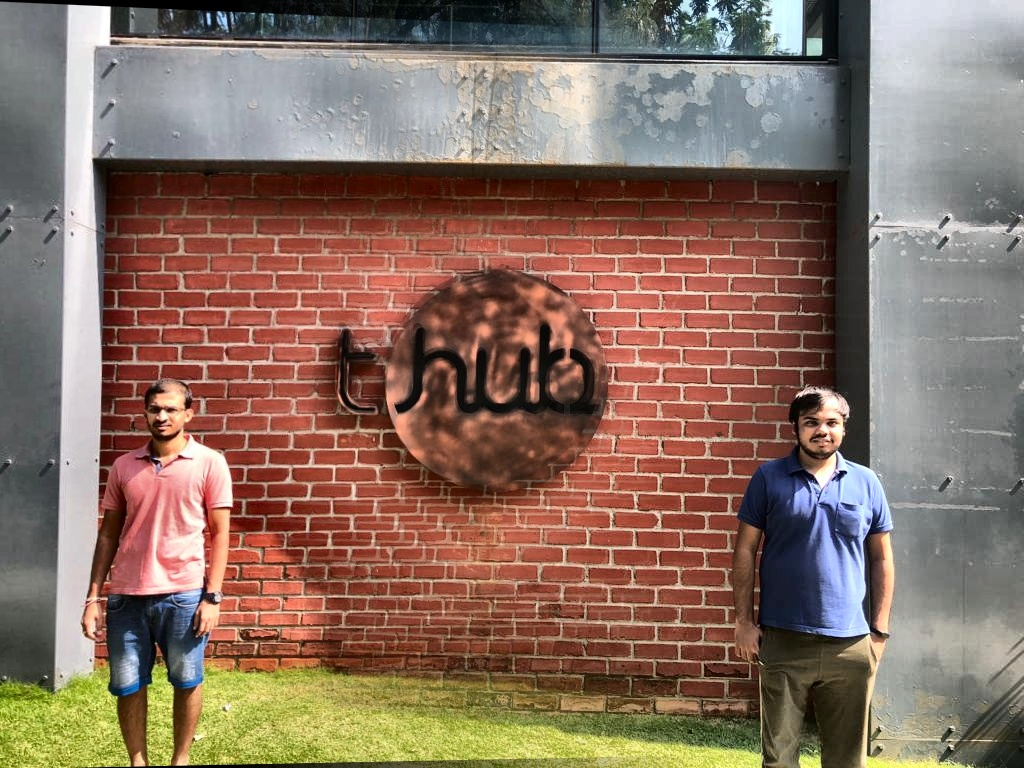
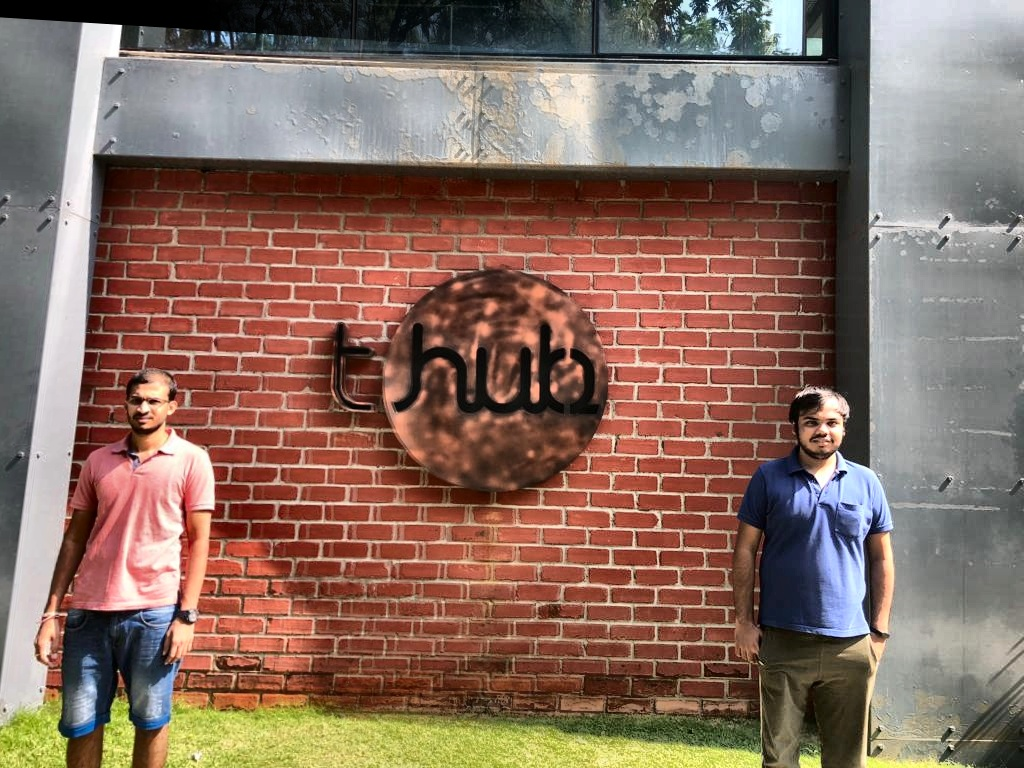
minor update

Changed region(s): [[0.0, 0.0, 0.6562, 1.0]]

diff --git a/lib/util.py b/lib/util.py
@@ -133,6 +133,10 @@ def sort_order(img1,img2,body1,body2):
         body2 = body_temp.copy()
     return img1,img2,body1,body2
 
+def blend_or_cut(body1,body2):
+    if body2[0][2]-body1[0][2]<30:
+        return "cut"
+
 def grabcut(img1,img2,body1,body2):
 
     a1,b1,c1,d1,w1,h1 = body1[0]
@@ -154,7 +158,14 @@ def grabcut(img1,img2,body1,body2):
         cv2.grabCut(foreground, mask,rect,bgdModel,fgdModel,1,cv2.GC_INIT_WITH_MASK)
         mask2 = np.where((mask==2)|(mask==0),0,1).astype('uint8')
         img = foreground*mask2[:,:,np.newaxis]
-        return img
+        op_image = np.zeros(img1.shape)
+        for i in range(op_image.shape[0]):
+            for j in range(op_image.shape[1]):
+                if img[i,j,1]==0:
+                    op_image[i,j]=background[i,j]
+                else:
+                    op_image[i,j]=foreground[i,j]
+        return op_image
     else:
         foreground = img2.copy()
         background = img1.copy()

diff --git a/main.py b/main.py
@@ -64,6 +64,6 @@ op_image = alpha_blend(homography_warped_1,Image_2,body_1_homographed,body_2)
 cv2.imwrite("trial_outputs/im10_op.jpg", op_image)
 body_1_homographed = [(a,b,c,d,w,h)]
 op_image = grabcut(homography_warped_1,Image_2,body_1_homographed,body_2)
-cv2.imwrite("trial_outputs/im1_op_grabcut.jpg", op_image)
+cv2.imwrite("trial_outputs/im10_op_grabcut.jpg", op_image)
 
 
